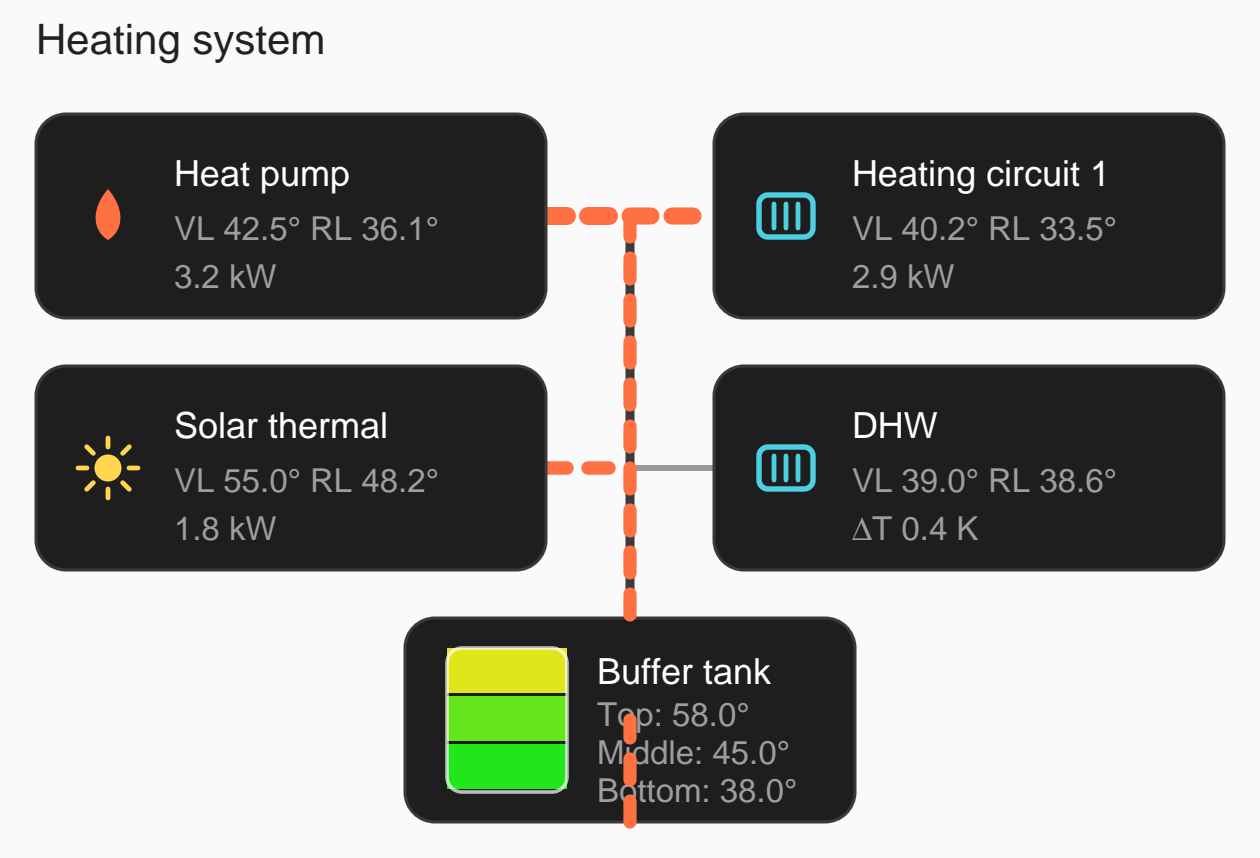
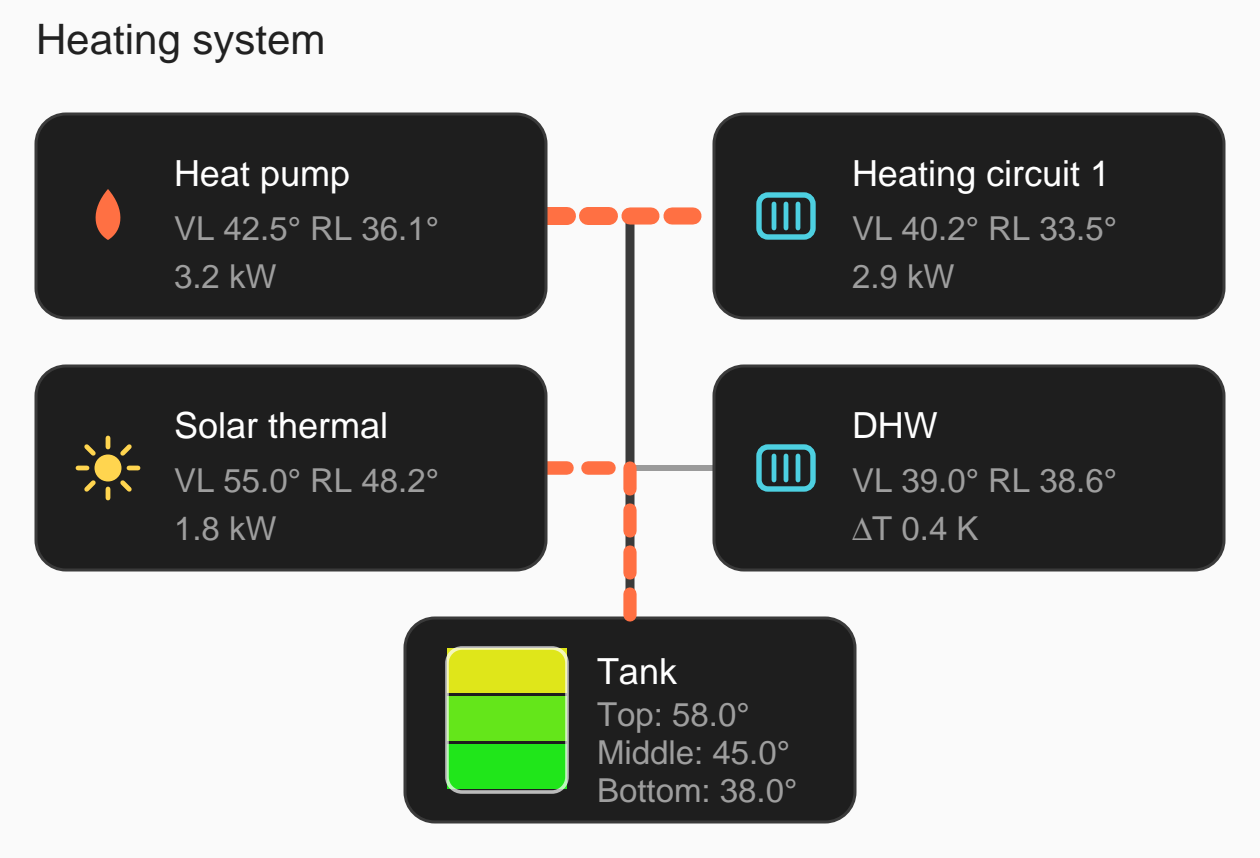
Rename buffer tank to Tank; flow lines now stop at box edges

Changed region(s): [[0.4643, 0.7576, 0.619, 0.9697], [0.4952, 0.2424, 0.5262, 0.5455]]

diff --git a/heating-flow-card.js b/heating-flow-card.js
@@ -235,7 +235,7 @@
         title: 'Heating',
         participants: [
           { id: 'generator', type: 'generator', name: 'Heat generator', sensors: { flow_temp: 'sensor.supply', return_temp: 'sensor.return' } },
-          { id: 'buffer', type: 'storage', name: 'Buffer tank', layers: [{ name: 'Top', temp: 'sensor.buffer_top' }, { name: 'Bottom', temp: 'sensor.buffer_bottom' }] },
+          { id: 'tank', type: 'storage', name: 'Tank', layers: [{ name: 'Top', temp: 'sensor.tank_top' }, { name: 'Bottom', temp: 'sensor.tank_bottom' }] },
           { id: 'heating', type: 'emitter', name: 'Heating circuit', sensors: { flow_temp: 'sensor.hc_supply', return_temp: 'sensor.hc_return' } }
         ]
       };
@@ -286,9 +286,11 @@
       let out = '';
 
       const yTop = rowY(0) + BOX_H / 2;
-      const yBot = rowY(rows - 1) + BOX_H / 2;
-      if (yBot > yTop) {
-        out += '<line class="hfc-bus" x1="' + BUS_X + '" y1="' + yTop + '" x2="' + BUS_X + '" y2="' + yBot + '"/>';
+      const ySideBot = rowY(sideRows - 1) + BOX_H / 2;
+      const sby = hasStorage ? rowY(sideRows) : null;
+      const yBusEnd = hasStorage ? sby : ySideBot;
+      if (yBusEnd > yTop) {
+        out += '<line class="hfc-bus" x1="' + BUS_X + '" y1="' + yTop + '" x2="' + BUS_X + '" y2="' + yBusEnd + '"/>';
       }
 
       sources.forEach((x, i) => {
@@ -305,14 +307,12 @@
 
       if (hasStorage) {
         const sx = storages[0];
-        const sby = rowY(sideRows);
         const storW = 150;
         const sbx = BUS_X - storW / 2;
         out += storageBox(sx, sbx, sby, storW, BOX_H, minT, maxT);
         const sf = sx.flow;
-        if (sf.active && sf.dir && yBot > yTop) {
-          out += conn(BUS_X, yTop, BUS_X, sby, sf, 'to');
-          out += conn(BUS_X, sby + BOX_H, BUS_X, yBot, sf, 'to');
+        if (sf.active && sf.dir && sby > ySideBot) {
+          out += conn(BUS_X, ySideBot, BUS_X, sby, sf, 'to');
         }
       }
 

diff --git a/README.md b/README.md
@@ -16,7 +16,7 @@ Supported participant types:
 | `generator` | Heat generator (heat pump, boiler, CHP …) | away from participant (`from`) |
 | `solar` | Solar thermal | away from participant (`from`) |
 | `emitter` | Heat consumers (heating circuit, DHW …) | towards participant (`to`) |
-| `storage` | Layered buffer tank with multiple temperature layers | charging = `to`, discharging = `from` (from temperature comparison) |
+| `storage` | Layered tank with multiple temperature layers | charging = `to`, discharging = `from` (from temperature comparison) |
 
 ![Heating Flow Card](screenshot.png)
 
@@ -59,16 +59,16 @@ participants:
     pump: binary_sensor.solar_pump
     pump_direction: from
 
-  - id: buffer
+  - id: tank
     type: storage
-    name: Buffer tank
+    name: Tank
     layers:
       - name: Top
-        temp: sensor.buffer_top
+        temp: sensor.tank_top
       - name: Middle
-        temp: sensor.buffer_middle
+        temp: sensor.tank_middle
       - name: Bottom
-        temp: sensor.buffer_bottom
+        temp: sensor.tank_bottom
 
   - id: heating_circuit_1
     type: emitter
